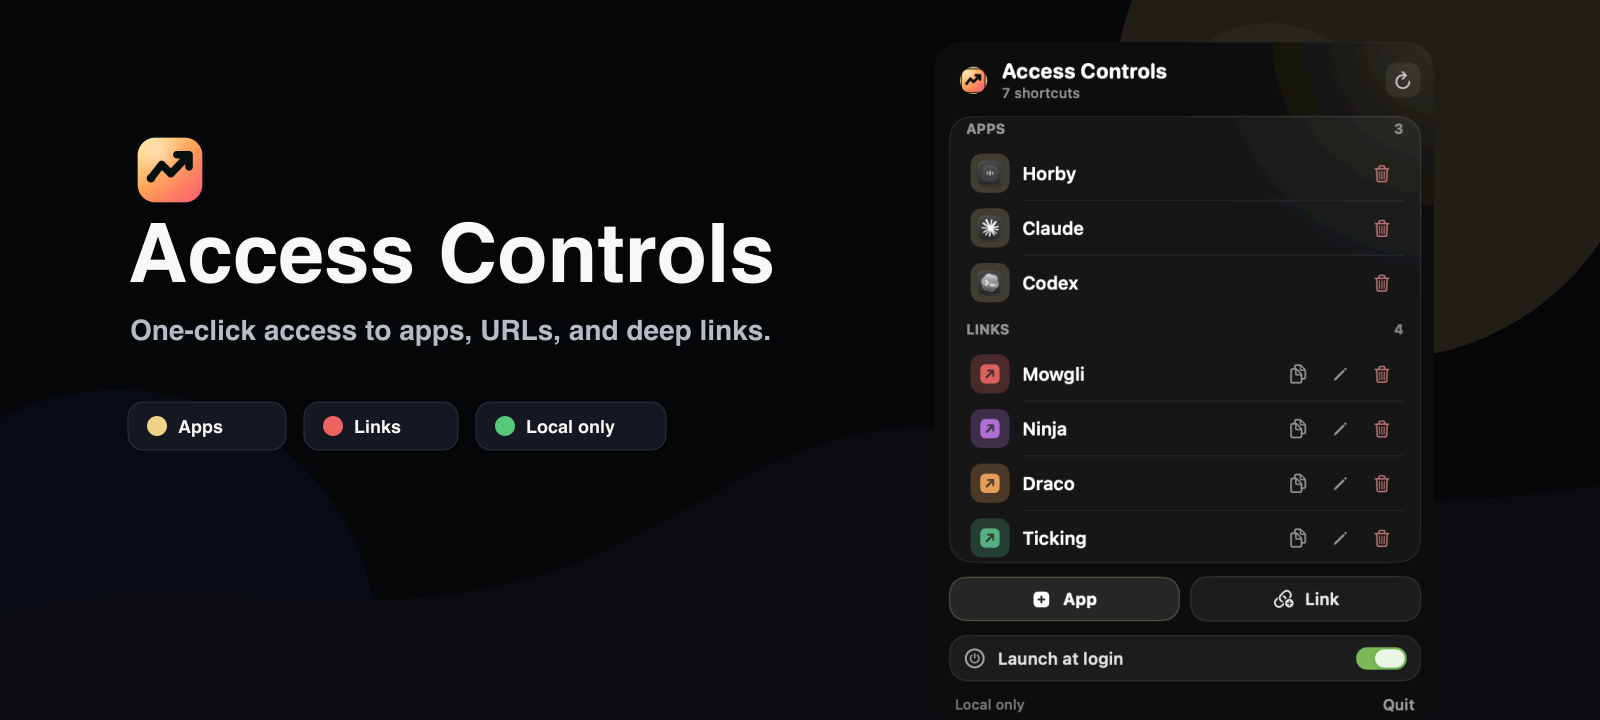
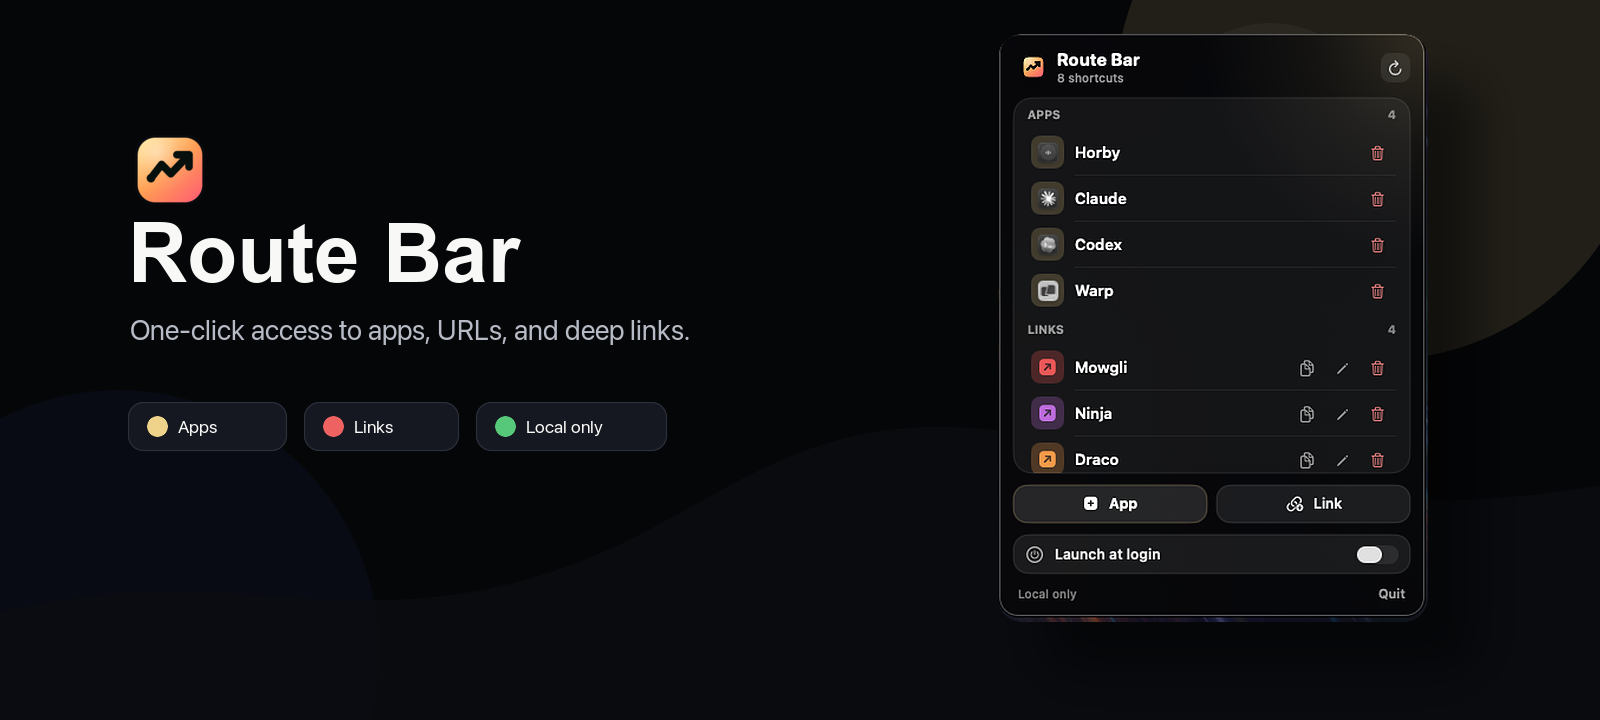
Rename app to Route Bar

diff --git a/Tools/CoreChecks/main.swift b/Tools/CoreChecks/main.swift
@@ -1,4 +1,4 @@
-import AccessControlsCore
+import RouteBarCore
 import Foundation
 
 enum CheckFailure: Error, CustomStringConvertible {
@@ -19,52 +19,52 @@ func check(_ condition: @autoclosure () -> Bool, _ message: String) throws {
 }
 
 do {
-    let webURL = try AccessItemValidator.normalizedURLString("example.com/school/123")
-    try check(webURL == "https://example.com/school/123", "Web URL normalization failed")
+    let webURL = try RouteItemValidator.normalizedURLString("example.com/calculator/help")
+    try check(webURL == "https://example.com/calculator/help", "Web URL normalization failed")
 
-    let deepLink = try AccessItemValidator.normalizedURLString("schoolapp://campus/42")
-    try check(deepLink == "schoolapp://campus/42", "Deep link preservation failed")
+    let deepLink = try RouteItemValidator.normalizedURLString("calculator://open")
+    try check(deepLink == "calculator://open", "Deep link preservation failed")
 
     do {
-        _ = try AccessItemValidator.normalizedURLString("https:///missing-host")
+        _ = try RouteItemValidator.normalizedURLString("https:///missing-host")
         throw CheckFailure.failed("Invalid HTTP URL was accepted")
-    } catch AccessValidationError.invalidURL {
+    } catch RouteValidationError.invalidURL {
     }
 
-    let normalizedGreen = try AccessItemValidator.normalizedColorHex("2f9e44")
+    let normalizedGreen = try RouteItemValidator.normalizedColorHex("2f9e44")
     try check(normalizedGreen == "#2F9E44", "Color normalization failed")
 
-    let normalizedBlue = try AccessItemValidator.normalizedColorHex("#4f7cac")
+    let normalizedBlue = try RouteItemValidator.normalizedColorHex("#4f7cac")
     try check(normalizedBlue == "#4F7CAC", "Hashed color normalization failed")
 
     let directoryURL = FileManager.default.temporaryDirectory
         .appendingPathComponent(UUID().uuidString, isDirectory: true)
     let fileURL = directoryURL.appendingPathComponent("items.json")
-    let store = AccessStore(fileURL: fileURL)
-    let item = AccessItem(
+    let store = RouteStore(fileURL: fileURL)
+    let item = RouteItem(
         kind: .link,
-        title: "School Portal",
+        title: "Calculator",
         colorHex: "#2F9E44",
         urlString: "https://example.com"
     )
 
     try store.upsert(item)
 
-    let reloadedStore = AccessStore(fileURL: fileURL)
+    let reloadedStore = RouteStore(fileURL: fileURL)
     try reloadedStore.load()
 
     try check(reloadedStore.items.count == 1, "Store round trip item count failed")
-    try check(reloadedStore.items.first?.title == "School Portal", "Store round trip title failed")
+    try check(reloadedStore.items.first?.title == "Calculator", "Store round trip title failed")
     try check(reloadedStore.items.first?.urlString == "https://example.com", "Store round trip URL failed")
 
     try reloadedStore.delete(id: item.id)
 
-    let deletedStore = AccessStore(fileURL: fileURL)
+    let deletedStore = RouteStore(fileURL: fileURL)
     try deletedStore.load()
     try check(deletedStore.items.isEmpty, "Store delete persistence failed")
 
-    print("AccessControlsCoreChecks passed")
+    print("RouteBarCoreChecks passed")
 } catch {
-    fputs("AccessControlsCoreChecks failed: \(error)\n", stderr)
+    fputs("RouteBarCoreChecks failed: \(error)\n", stderr)
     exit(1)
 }

diff --git a/Package.swift b/Package.swift
@@ -3,36 +3,36 @@
 import PackageDescription
 
 let package = Package(
-    name: "AccessControls",
+    name: "RouteBar",
     platforms: [
         .macOS(.v13)
     ],
     products: [
         .library(
-            name: "AccessControlsCore",
-            targets: ["AccessControlsCore"]
+            name: "RouteBarCore",
+            targets: ["RouteBarCore"]
         ),
         .executable(
-            name: "AccessControls",
-            targets: ["AccessControlsApp"]
+            name: "RouteBar",
+            targets: ["RouteBarApp"]
         ),
         .executable(
-            name: "AccessControlsCoreChecks",
-            targets: ["AccessControlsCoreChecks"]
+            name: "RouteBarCoreChecks",
+            targets: ["RouteBarCoreChecks"]
         )
     ],
     targets: [
-        .target(name: "AccessControlsCore"),
+        .target(name: "RouteBarCore"),
         .executableTarget(
-            name: "AccessControlsApp",
-            dependencies: ["AccessControlsCore"],
+            name: "RouteBarApp",
+            dependencies: ["RouteBarCore"],
             resources: [
                 .process("Resources")
             ]
         ),
         .executableTarget(
-            name: "AccessControlsCoreChecks",
-            dependencies: ["AccessControlsCore"],
+            name: "RouteBarCoreChecks",
+            dependencies: ["RouteBarCore"],
             path: "Tools/CoreChecks"
         )
     ]

diff --git a/README.md b/README.md
@@ -1,21 +1,21 @@
-# Access Controls
+# Route Bar
 
 A native macOS menu bar app for one-click access to saved applications and URLs/deep links.
 
 <p align="center">
-  <img src="docs/images/hero-banner.png" alt="Access Controls hero banner" width="100%">
+  <img src="docs/images/hero-banner.png" alt="Route Bar hero banner" width="100%">
 </p>
 
 ## Preview
 
 <p align="center">
-  <img src="docs/images/menu-preview.png" alt="Access Controls menu preview with apps and links" width="620">
+  <img src="docs/images/menu-preview.png" alt="Route Bar menu preview with apps and links" width="620">
 </p>
 
 ## Features
 
 - Add macOS apps from a compact standalone picker; app shortcuts use the system app name and icon.
-- Add URLs and custom deep links such as `schoolapp://campus/42` from a standalone editor window.
+- Add URLs and custom deep links such as `calculator://open` from a standalone editor window.
 - Give links a label, optional description, and color.
 - Click an app item to bring it forward if it is already running, or launch it if it is closed.
 - Click a link item to open it with macOS, using the default browser or the app registered for that URL scheme.
@@ -24,18 +24,18 @@ A native macOS menu bar app for one-click access to saved applications and URLs/
 
 Saved items are stored locally at:
 
-`~/Library/Application Support/AccessControls/items.json`
+`~/Library/Application Support/RouteBar/items.json`
 
 ## Build
 
 ```bash
-swift run AccessControlsCoreChecks
+swift run RouteBarCoreChecks
 Scripts/build-app.sh
-open build/AccessControls.app
+open build/RouteBar.app
 ```
 
 The app is packaged as a menu bar-only app using `LSUIElement`, so it does not show a Dock icon.
 
 ## License
 
-Access Controls is open source under the MIT License.
+Route Bar is open source under the MIT License.